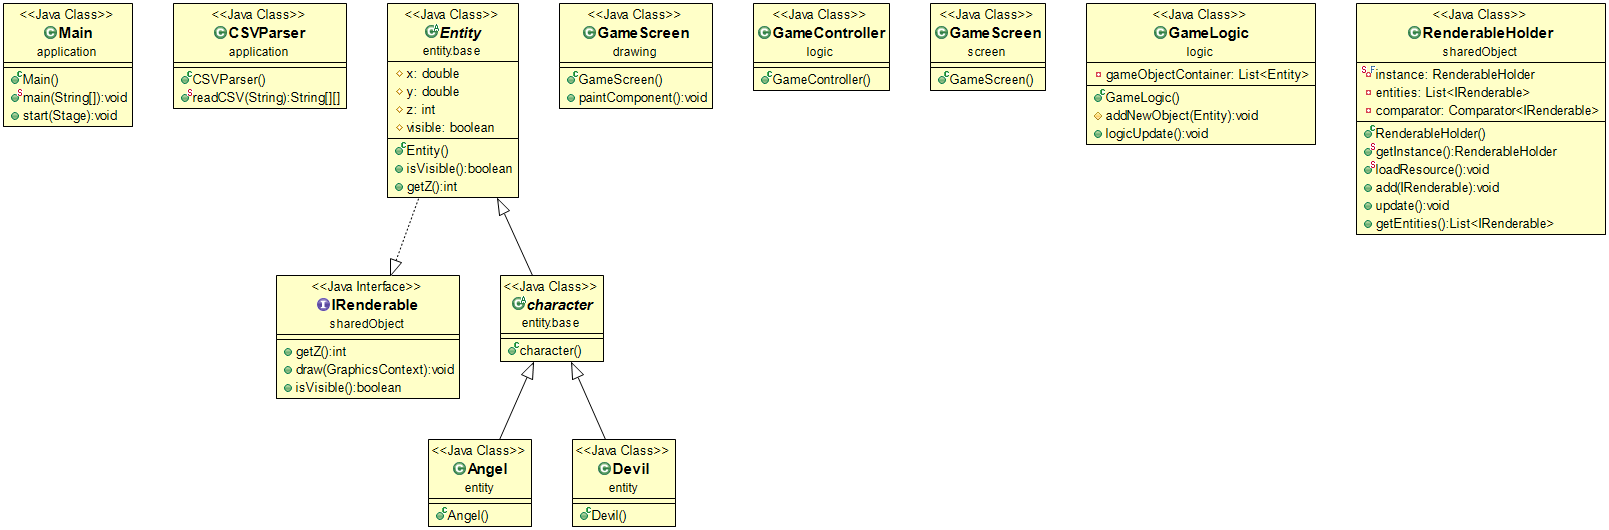
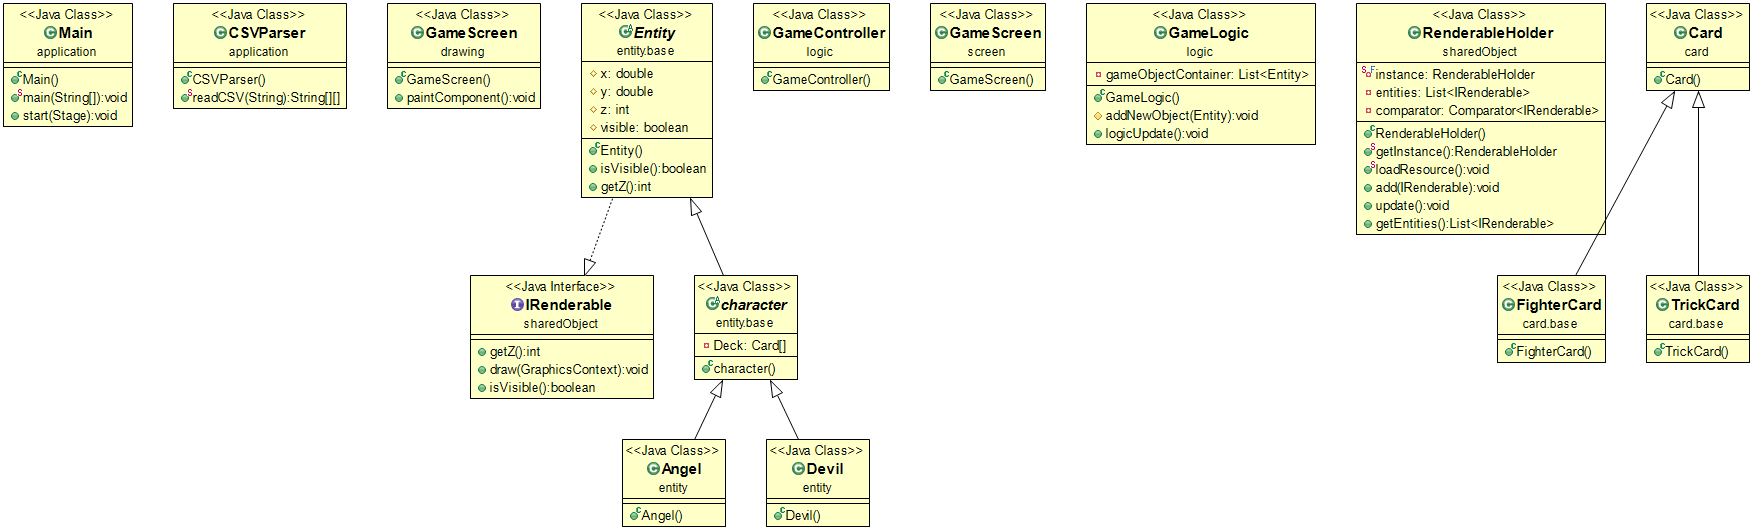
Update character.java

diff --git a/src/entity/base/character.java b/src/entity/base/character.java
@@ -1,5 +1,8 @@
 package entity.base;
 
+import card.Card;
+
 public abstract class character extends Entity {
+	private Card[] Deck;
 
 }
